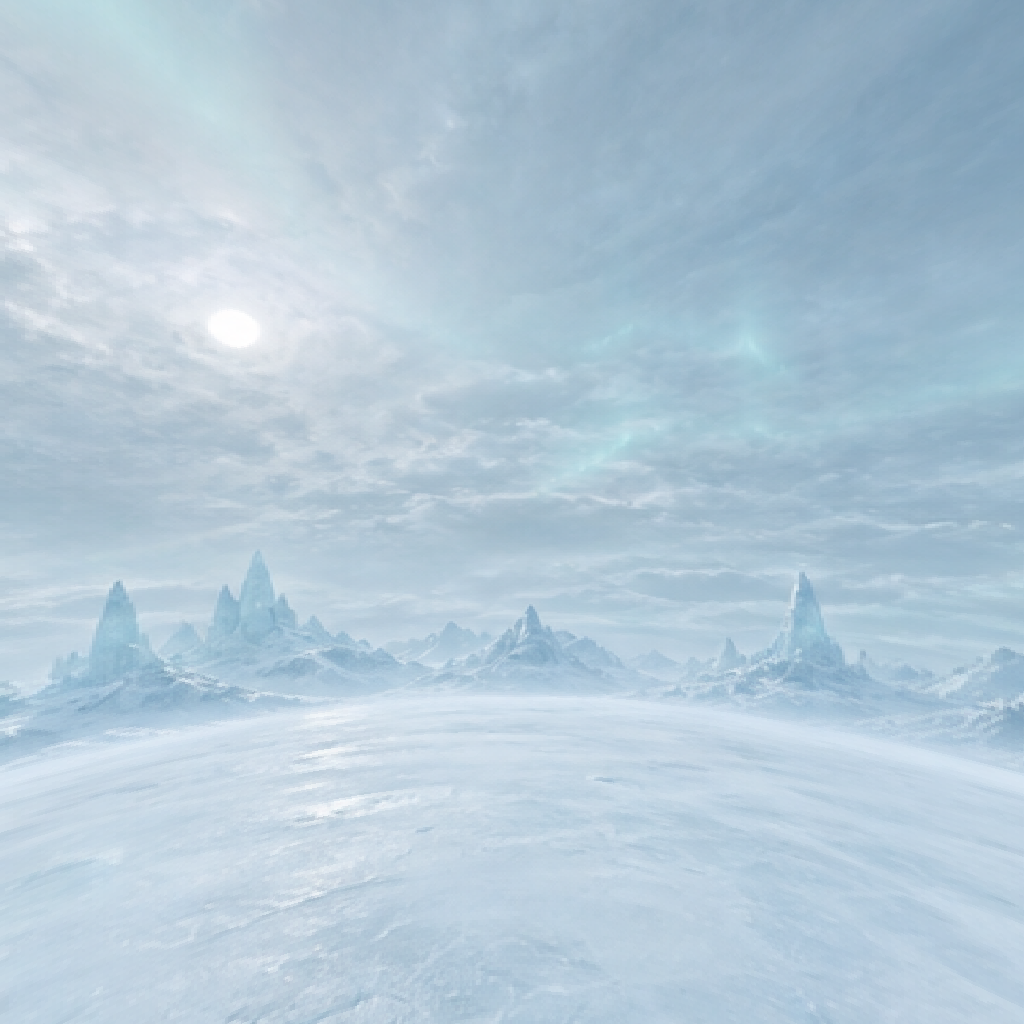
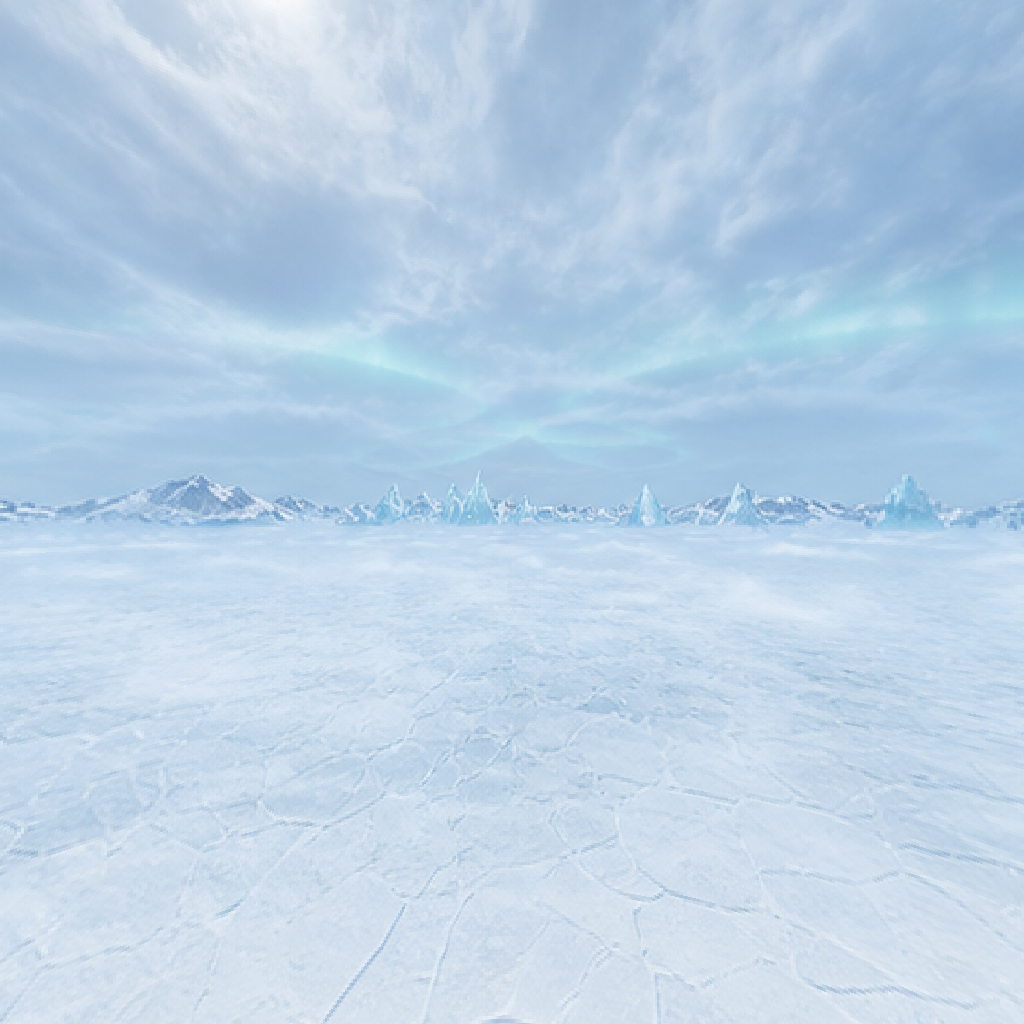
content(art): replace Cryo Foundry skybox with a clean 2:1 equirect (v2)
Regenerate the source as a true 2:1 equirectangular (horizon on the equator),
fixing the horizon waviness the 3:2 v1 source caused at the cube-face seams.
Reconvert the six faces; the side faces now share a level, continuous horizon.
v1 faces + source archived under earlyartwork/archived/cryo-foundry-skybox-v1/
per the asset workflow.

diff --git a/docs/art-direction/skybox.md b/docs/art-direction/skybox.md
@@ -57,10 +57,11 @@ default sky with a blank one until the real ids are filled in.
 
 ## Notes and known limitations
 
-- Stylized/first-pass quality. The source panorama is 3:2 rather than a true
-  2:1 equirectangular, so the horizon has slight waviness at the face seams —
-  acceptable for a distant backdrop, improvable by regenerating a cleaner 2:1
-  source.
+- Current source is a true **2:1 equirectangular** (v2) with the horizon on the
+  equator, so the side faces have a clean, level, continuous horizon. The v1
+  source (3:2, wavy horizon) is archived at
+  `earlyartwork/archived/cryo-foundry-skybox-v1/`.
+- Stylized quality — fine as a distant backdrop; not a photoreal HDRI.
 - If faces look mirrored or rotated in Studio, the face orientation convention
   in `skybox_convert.py` needs a per-face flip — tell me what's off and it's a
   one-line change plus a reconvert.
